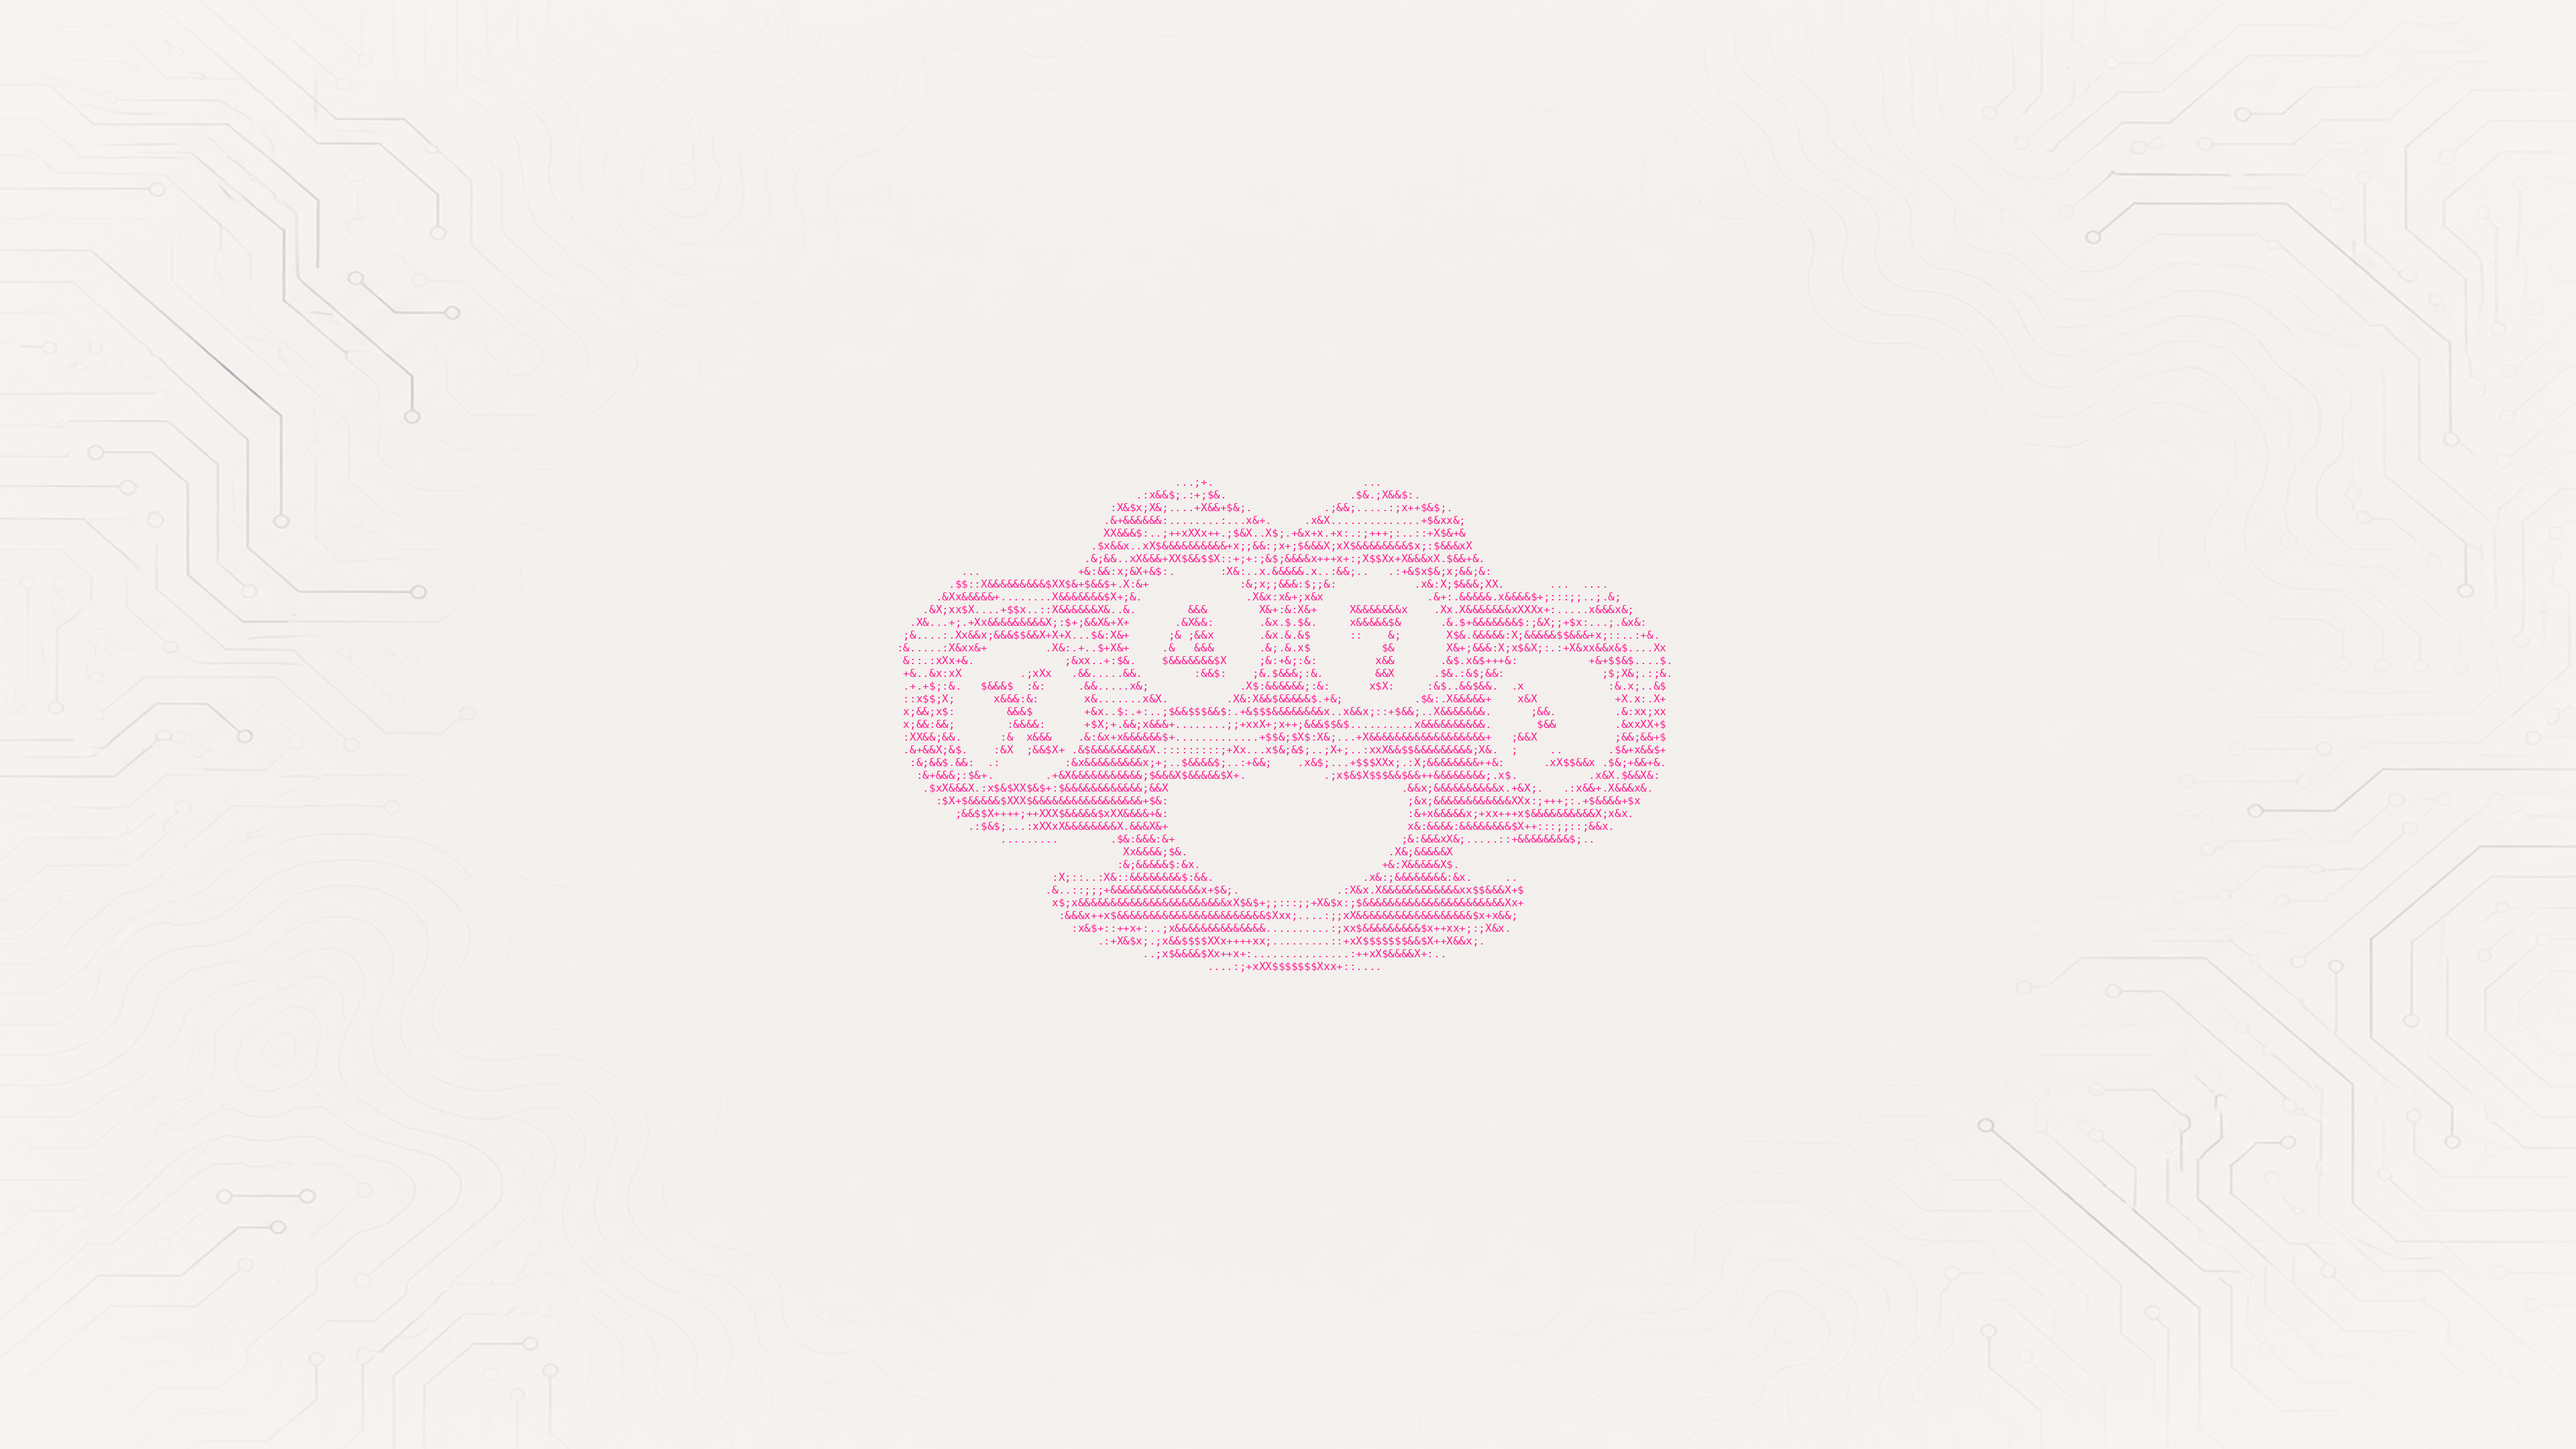
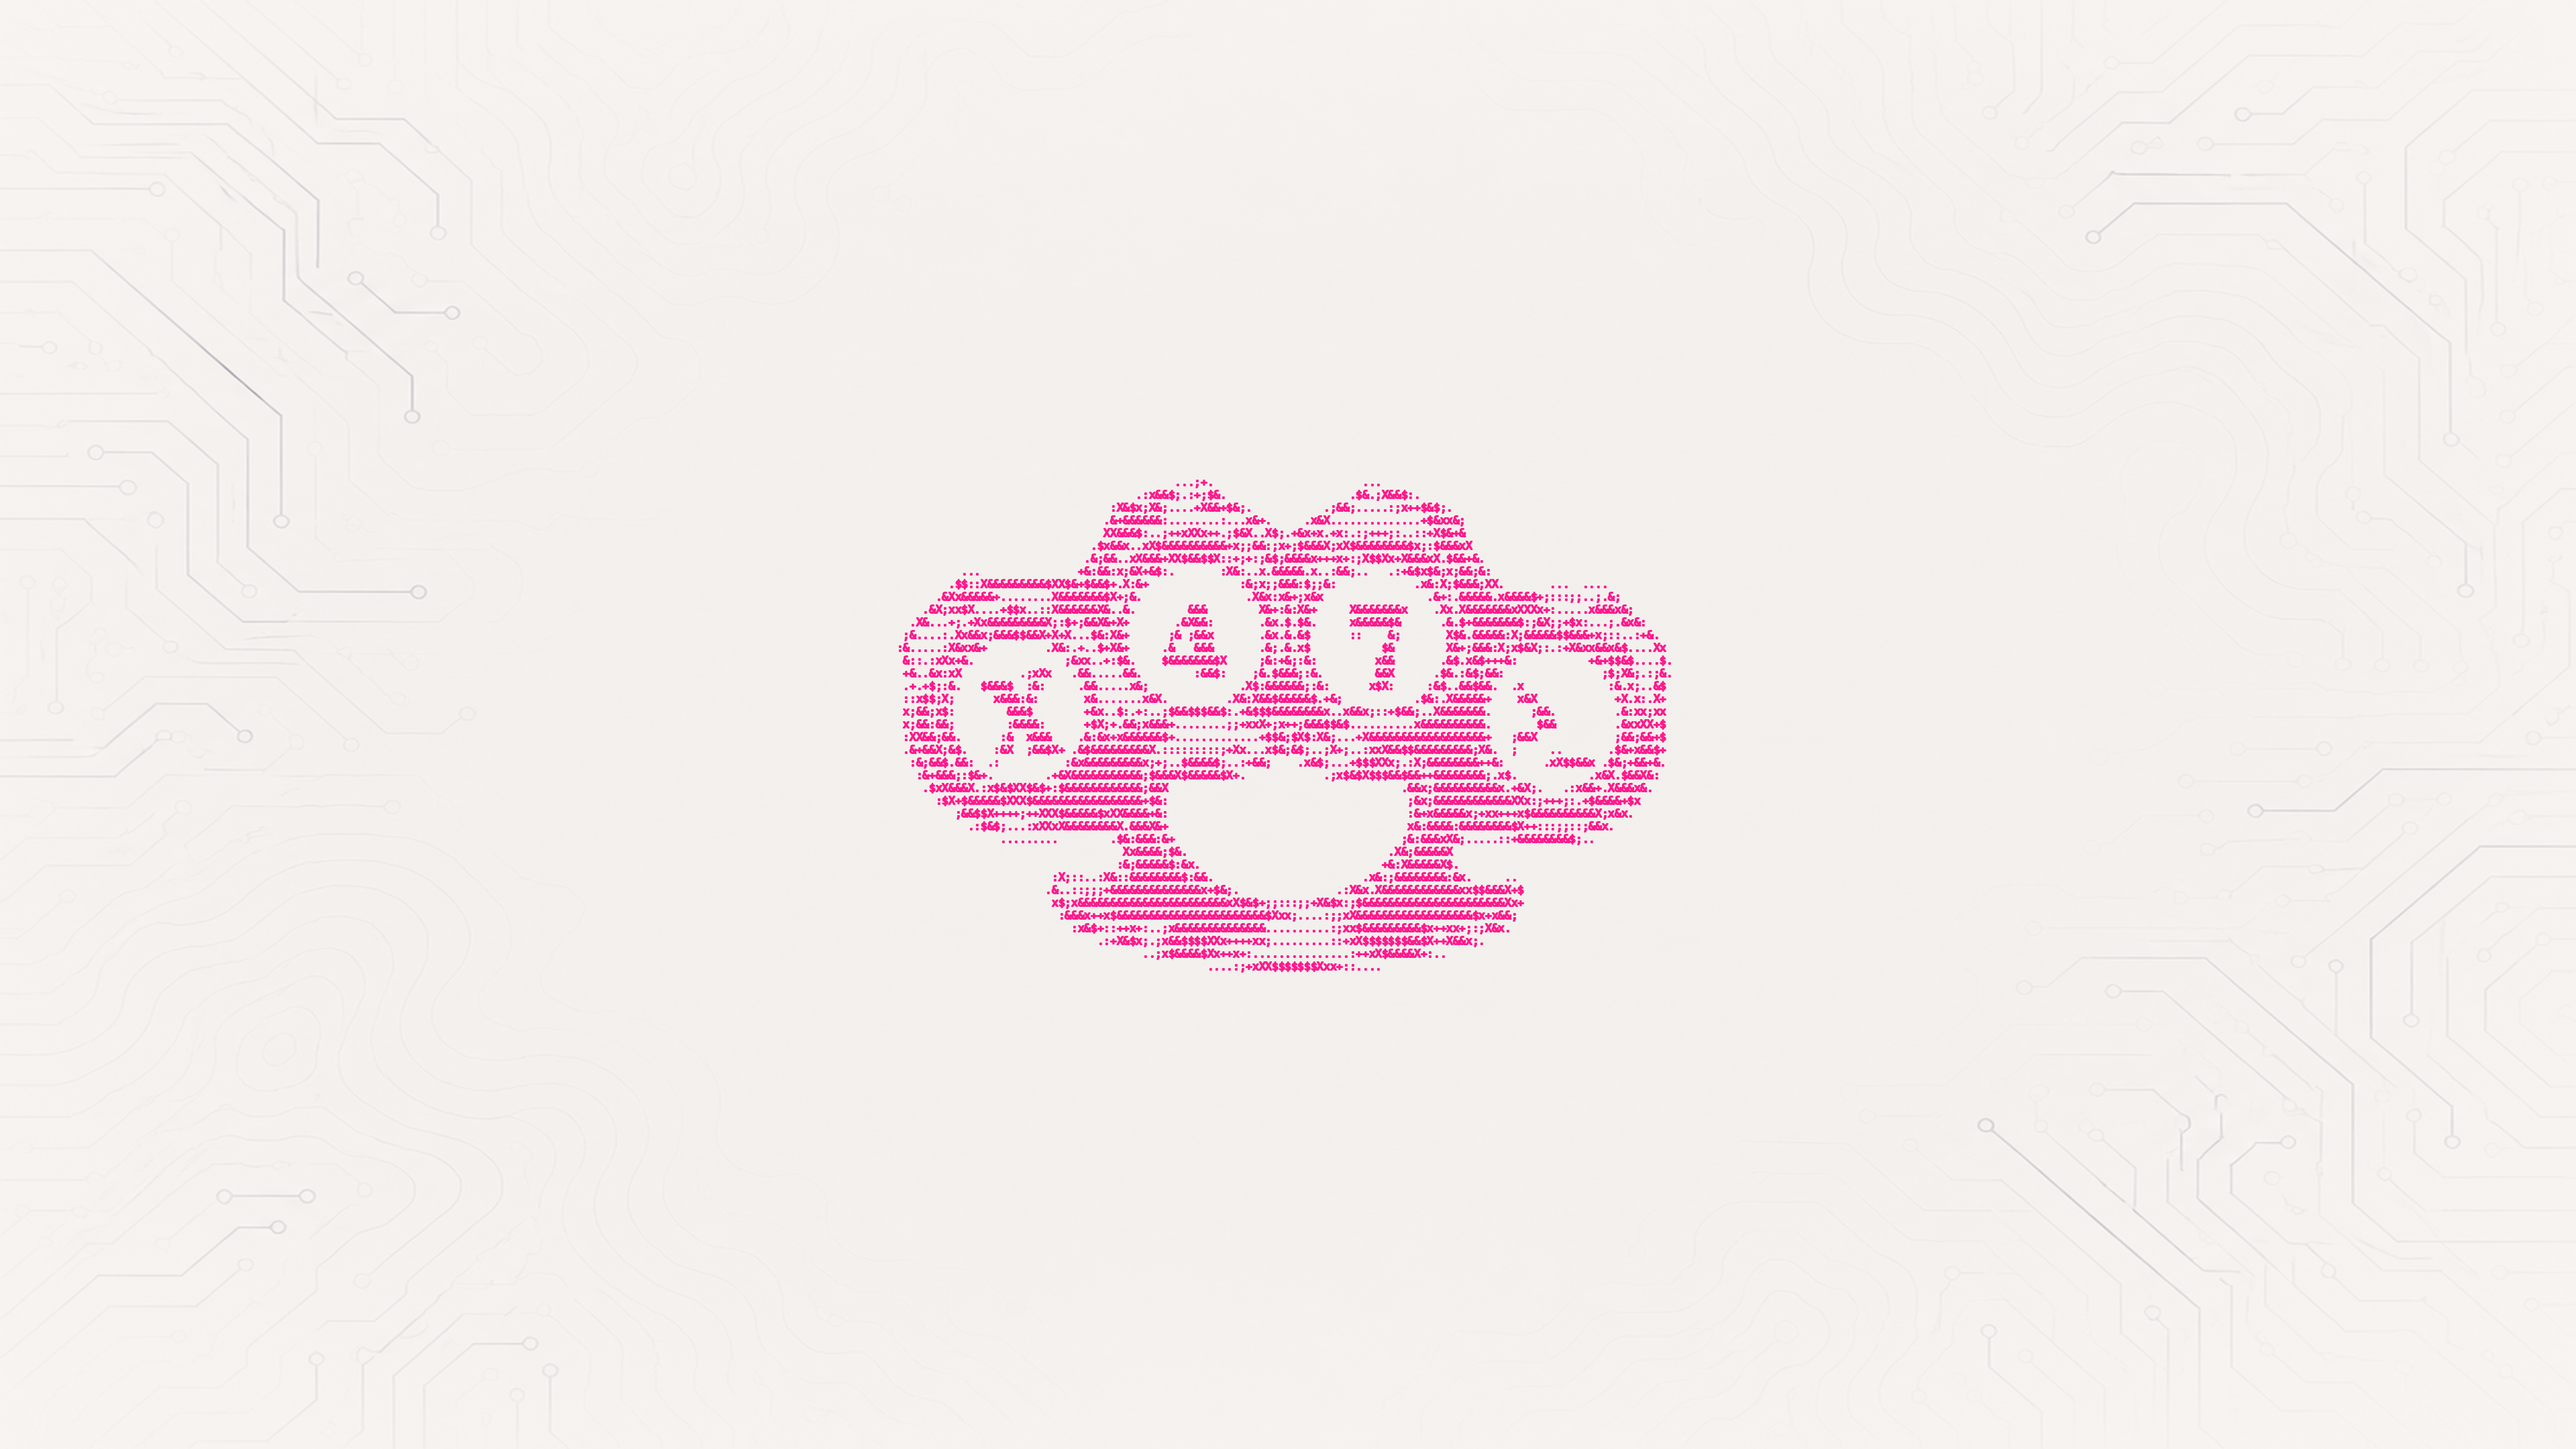
fill out the pink duster with a 1px bold stroke

Changed region(s): [[0.3438, 0.3412, 0.6562, 0.6824]]

diff --git a/scripts/make-wallpaper.py b/scripts/make-wallpaper.py
@@ -43,6 +43,7 @@ COLOURS = {
     },
     "pink": {  # workspace 2 — bright pink duster on off-white circuit
         "sharp": (255, 25, 140),
+        "bold": True,  # thicken the glyphs so the art fills out on the light bg
         "out": "x47-circuit-pink.png",
         "recolor": ((248, 246, 242), (168, 160, 172)),
     },
@@ -116,7 +117,7 @@ def background(spec):
     return Image.composite(lower, base, mask)
 
 
-def draw_art(base, lines, font, sharp_rgb, glow_rgb=None):
+def draw_art(base, lines, font, sharp_rgb, glow_rgb=None, bold=False):
     cw = font.getlength("M")
     ascent, descent = font.getmetrics()
     lh = ascent + descent
@@ -137,8 +138,10 @@ def draw_art(base, lines, font, sharp_rgb, glow_rgb=None):
 
     sharp = Image.new("RGBA", (W, H), (0, 0, 0, 0))
     sd = ImageDraw.Draw(sharp)
+    # A 1px same-colour stroke fattens the glyphs without any blur.
+    bold_kw = {"stroke_width": 1, "stroke_fill": (*sharp_rgb, 255)} if bold else {}
     for i, ln in enumerate(lines):
-        sd.text((x0, y0 + i * lh), ln, font=font, fill=(*sharp_rgb, 255))
+        sd.text((x0, y0 + i * lh), ln, font=font, fill=(*sharp_rgb, 255), **bold_kw)
     out = Image.alpha_composite(out, sharp)
     return out.convert("RGB")
 
@@ -151,6 +154,7 @@ def render(name: str, lines, font):
         font,
         spec["sharp"],
         spec.get("glow"),
+        spec.get("bold", False),
     )
     out = OUT_DIR / spec["out"]
     OUT_DIR.mkdir(parents=True, exist_ok=True)
